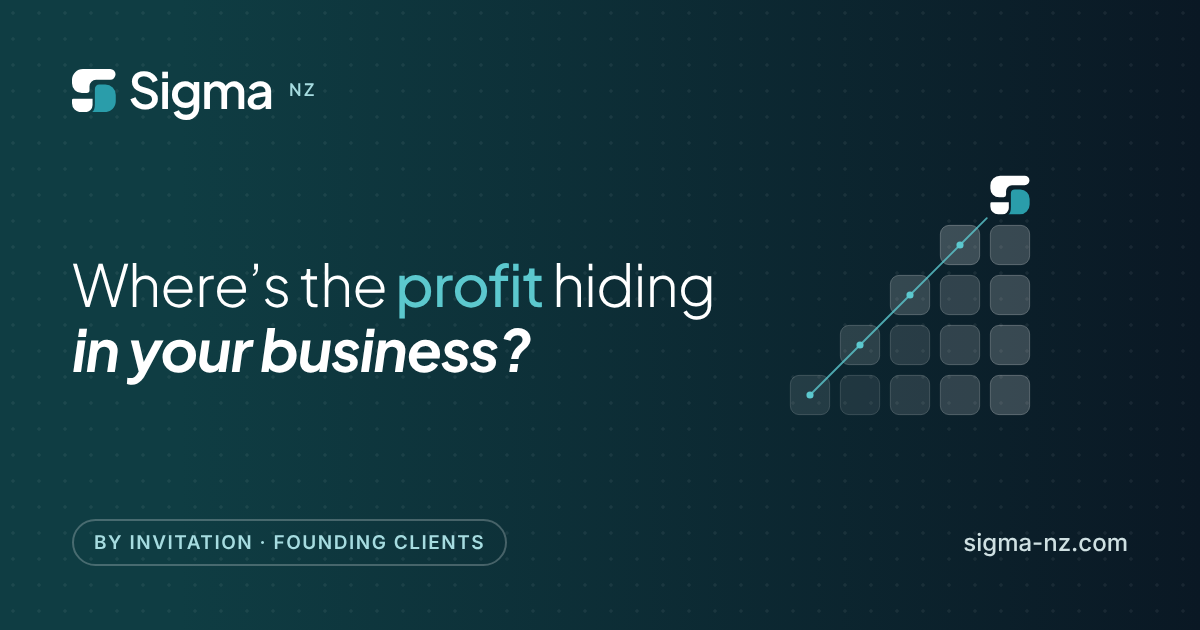
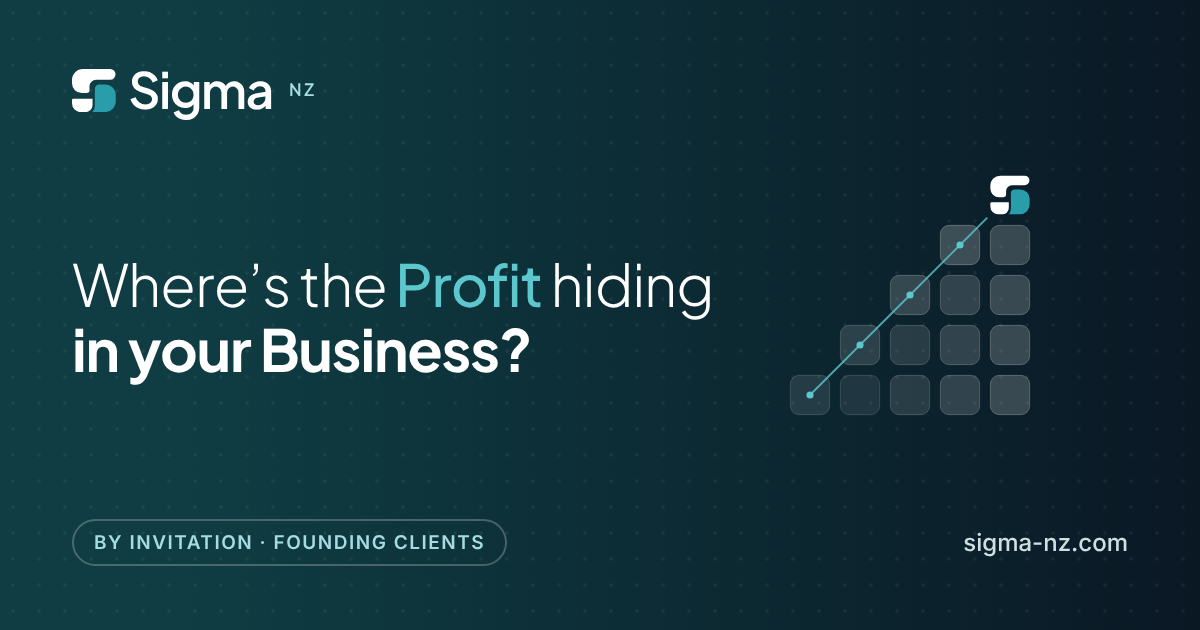
Preview: headline upright (no italics), Profit and Business capitalised; social image to match
Claude-Session: https://claude.ai/code/session_01DSQcB5r2Yb1yH5XMX9vJf5

Changed region(s): [[0.0617, 0.5127, 0.4317, 0.6032], [0.3083, 0.4222, 0.6167, 0.5127], [0.3083, 0.4825, 0.3392, 0.5127]]

diff --git a/public/styles.css b/public/styles.css
@@ -9,8 +9,8 @@
 @font-face{font-family:'Plus Jakarta Sans';font-style:normal;font-display:swap;font-weight:300;src:url(/fonts/plus-jakarta-sans-latin-300-normal.woff2) format('woff2');unicode-range:U+0000-00FF,U+0131,U+0152-0153,U+02BB-02BC,U+02C6,U+02DA,U+02DC,U+0304,U+0308,U+0329,U+2000-206F,U+20AC,U+2122,U+2191,U+2193,U+2212,U+2215,U+FEFF,U+FFFD}
 @font-face{font-family:'Plus Jakarta Sans';font-style:normal;font-display:swap;font-weight:500;src:url(/fonts/plus-jakarta-sans-latin-ext-500-normal.woff2) format('woff2');unicode-range:U+0100-02BA,U+02BD-02C5,U+02C7-02CC,U+02CE-02D7,U+02DD-02FF,U+0304,U+0308,U+0329,U+1D00-1DBF,U+1E00-1E9F,U+1EF2-1EFF,U+2020,U+20A0-20AB,U+20AD-20C0,U+2113,U+2C60-2C7F,U+A720-A7FF}
 @font-face{font-family:'Plus Jakarta Sans';font-style:normal;font-display:swap;font-weight:500;src:url(/fonts/plus-jakarta-sans-latin-500-normal.woff2) format('woff2');unicode-range:U+0000-00FF,U+0131,U+0152-0153,U+02BB-02BC,U+02C6,U+02DA,U+02DC,U+0304,U+0308,U+0329,U+2000-206F,U+20AC,U+2122,U+2191,U+2193,U+2212,U+2215,U+FEFF,U+FFFD}
-@font-face{font-family:'Plus Jakarta Sans';font-style:italic;font-display:swap;font-weight:700;src:url(/fonts/plus-jakarta-sans-latin-ext-700-italic.woff2) format('woff2');unicode-range:U+0100-02BA,U+02BD-02C5,U+02C7-02CC,U+02CE-02D7,U+02DD-02FF,U+0304,U+0308,U+0329,U+1D00-1DBF,U+1E00-1E9F,U+1EF2-1EFF,U+2020,U+20A0-20AB,U+20AD-20C0,U+2113,U+2C60-2C7F,U+A720-A7FF}
-@font-face{font-family:'Plus Jakarta Sans';font-style:italic;font-display:swap;font-weight:700;src:url(/fonts/plus-jakarta-sans-latin-700-italic.woff2) format('woff2');unicode-range:U+0000-00FF,U+0131,U+0152-0153,U+02BB-02BC,U+02C6,U+02DA,U+02DC,U+0304,U+0308,U+0329,U+2000-206F,U+20AC,U+2122,U+2191,U+2193,U+2212,U+2215,U+FEFF,U+FFFD}
+@font-face{font-family:'Plus Jakarta Sans';font-style:normal;font-display:swap;font-weight:700;src:url(/fonts/plus-jakarta-sans-latin-ext-700-normal.woff2) format('woff2');unicode-range:U+0100-02BA,U+02BD-02C5,U+02C7-02CC,U+02CE-02D7,U+02DD-02FF,U+0304,U+0308,U+0329,U+1D00-1DBF,U+1E00-1E9F,U+1EF2-1EFF,U+2020,U+20A0-20AB,U+20AD-20C0,U+2113,U+2C60-2C7F,U+A720-A7FF}
+@font-face{font-family:'Plus Jakarta Sans';font-style:normal;font-display:swap;font-weight:700;src:url(/fonts/plus-jakarta-sans-latin-700-normal.woff2) format('woff2');unicode-range:U+0000-00FF,U+0131,U+0152-0153,U+02BB-02BC,U+02C6,U+02DA,U+02DC,U+0304,U+0308,U+0329,U+2000-206F,U+20AC,U+2122,U+2191,U+2193,U+2212,U+2215,U+FEFF,U+FFFD}
 
 /* Inter: all site text */
 @font-face{font-family:'Inter';font-style:normal;font-display:swap;font-weight:300;src:url(/fonts/inter-latin-ext-300-normal.woff2) format('woff2');unicode-range:U+0100-02BA,U+02BD-02C5,U+02C7-02CC,U+02CE-02D7,U+02DD-02FF,U+0304,U+0308,U+0329,U+1D00-1DBF,U+1E00-1E9F,U+1EF2-1EFF,U+2020,U+20A0-20AB,U+20AD-20C0,U+2113,U+2C60-2C7F,U+A720-A7FF}
@@ -92,7 +92,7 @@ h1{font-size:clamp(40px,4.8vw,64px);line-height:1.06;font-weight:700;letter-spac
 .headline{font-family:'Plus Jakarta Sans','Inter',system-ui,sans-serif;font-size:clamp(36px,3.4vw,48px);line-height:1.12;letter-spacing:-.02em}
 .headline-light{display:block;font-weight:300}
 .headline-light .hl{font-weight:500}
-.headline-bold{display:block;font-weight:700;font-style:italic}
+.headline-bold{display:block;font-weight:700}
 .lead{max-width:580px;font-size:clamp(17px,1.3vw,19px);line-height:1.55;color:var(--text)}
 .hero-actions{display:flex;flex-wrap:wrap;align-items:center;gap:16px 28px;padding-top:4px}
 .text-link{font-size:16px;font-weight:600;color:#FFFFFF}

diff --git a/public/index.html b/public/index.html
@@ -13,17 +13,17 @@
 <link rel="manifest" href="/manifest.webmanifest">
 <meta property="og:type" content="website">
 <meta property="og:site_name" content="Sigma NZ">
-<meta property="og:title" content="Sigma NZ: where’s the profit hiding in your business?">
+<meta property="og:title" content="Sigma NZ: where’s the Profit hiding in your Business?">
 <meta property="og:description" content="Invitation-only technology appraisal for NZ business owners. We find where profit is hiding and put a dollar figure on every fix, from systems to AI.">
 <meta property="og:url" content="https://sigma-nz.com/">
 <meta property="og:image" content="https://sigma-nz.com/img/og-image.png">
-<meta property="og:image:alt" content="Sigma NZ: where’s the profit hiding in your business?">
+<meta property="og:image:alt" content="Sigma NZ: where’s the Profit hiding in your Business?">
 <meta property="og:image:width" content="1200">
 <meta property="og:image:height" content="630">
 <meta property="og:locale" content="en_NZ">
 <meta name="twitter:card" content="summary_large_image">
 <link rel="preload" href="/fonts/plus-jakarta-sans-latin-300-normal.woff2" as="font" type="font/woff2" crossorigin>
-<link rel="preload" href="/fonts/plus-jakarta-sans-latin-700-italic.woff2" as="font" type="font/woff2" crossorigin>
+<link rel="preload" href="/fonts/plus-jakarta-sans-latin-700-normal.woff2" as="font" type="font/woff2" crossorigin>
 <link rel="preload" href="/fonts/inter-latin-400-normal.woff2" as="font" type="font/woff2" crossorigin>
 <script type="application/ld+json">
 {
@@ -93,7 +93,7 @@
   <div class="wrap hero-grid">
     <div class="hero-copy">
       <p class="pill">By invitation · Founding clients</p>
-      <h1 class="headline"><span class="headline-light">Where’s the <span class="hl">profit</span> hiding</span> <span class="headline-bold">in your business?</span></h1>
+      <h1 class="headline"><span class="headline-light">Where’s the <span class="hl">Profit</span> hiding</span> <span class="headline-bold">in your Business?</span></h1>
       <p class="lead">Sigma NZ is an invitation-only technology appraisal and AI automation advisory for New Zealand business owners. We show you where technology and AI could unlock growth, speed and new potential. We prioritise the highest-value changes and show you the return on each.</p>
       <div class="hero-actions">
         <a class="btn btn-lg" href="#invite">Request an invitation</a>
